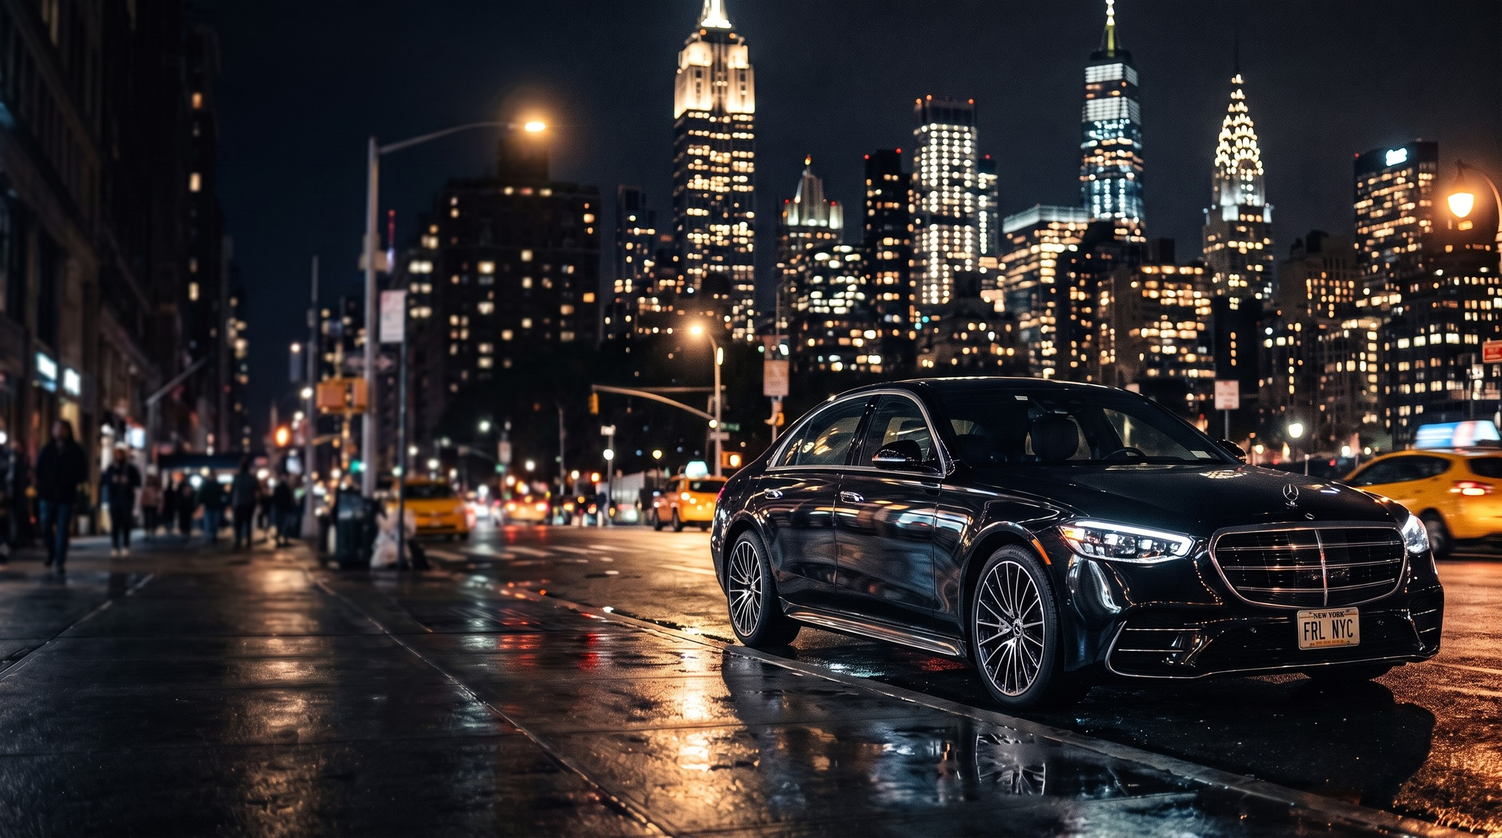
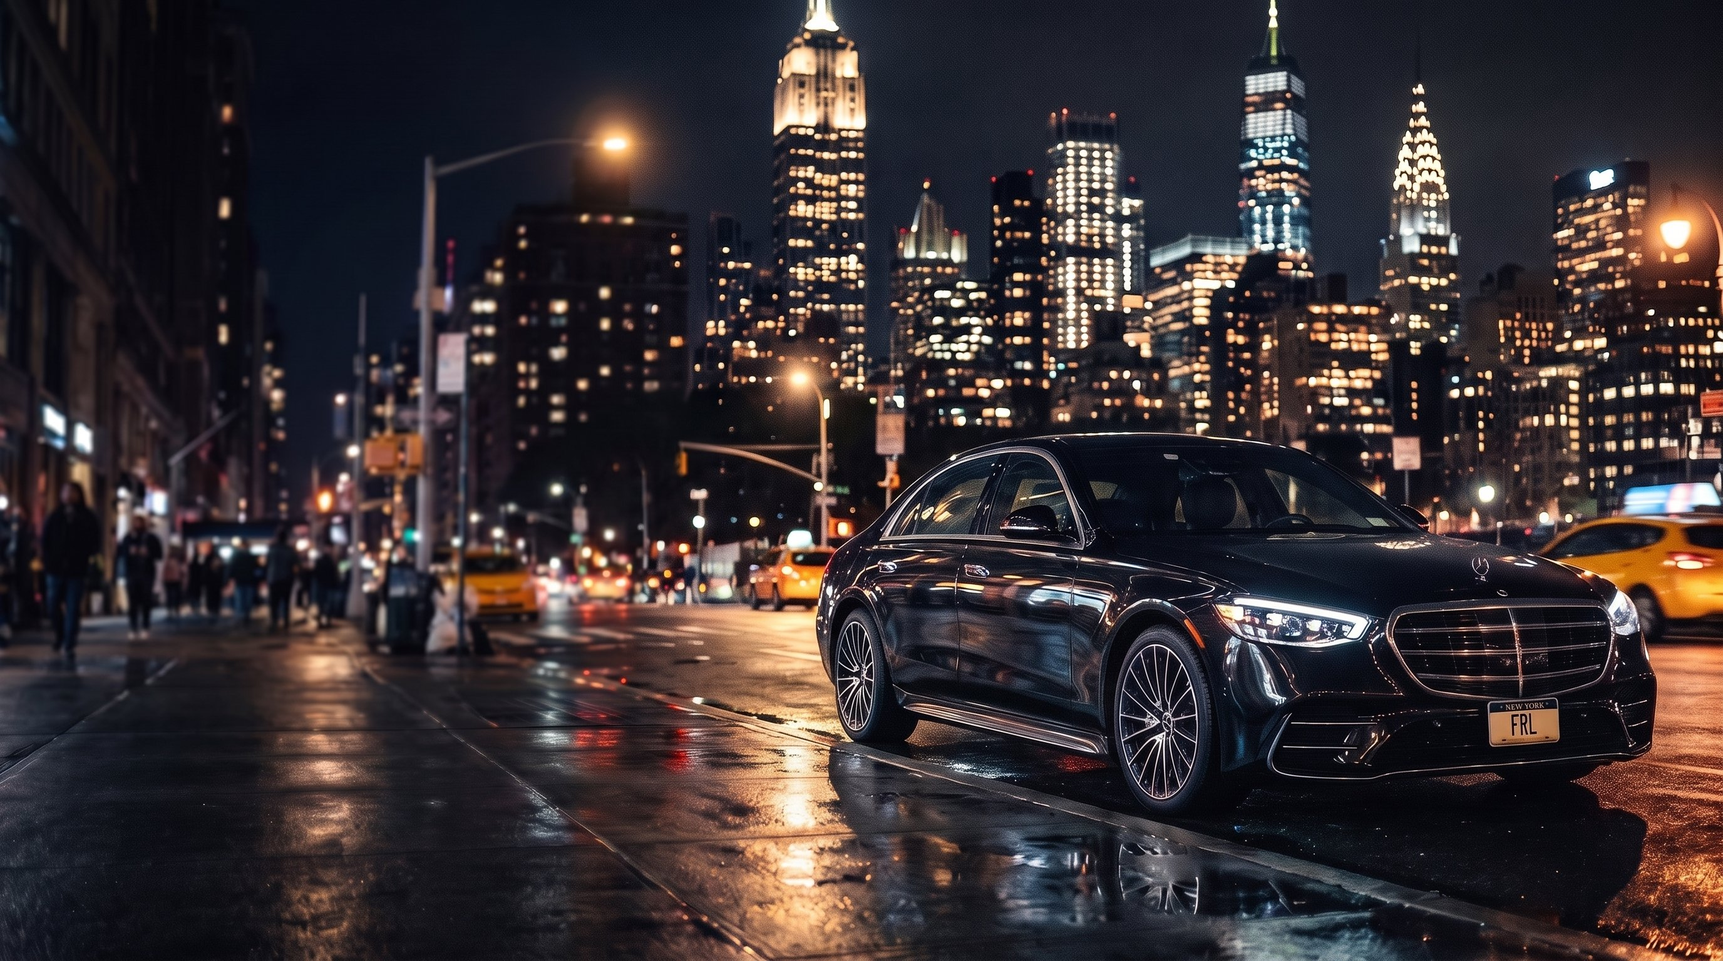
Go global: worldwide airport search, global copy pass, Qatar consulate partner
- Reserve a Ride: airport fields are now a worldwide Google Places search
  (includedPrimaryTypes: airport) instead of a 7-airport NYC dropdown, with
  quick-pick chips for common airports (JFK, LGA, EWR, LHR, DXB, CDG)
- Rewrote NY/tri-state-exclusive copy across airport-transfers, corporate-
  limousine, hotels-concierge, contact-us and the homepage (meta
  descriptions, hero copy, section titles, FAQ answers, page titles) to
  reflect the 200+ city, 90+ country network alongside the accurate NY
  specifics; added a "landing somewhere else" banner to the airports page
- Homepage hero H1 now reads "...now worldwide" instead of implying NYC-only
- Partners & Clients: The Plaza now appears first in DOM order so it leads
  on the mobile stacked grid (desktop is unaffected, positioned absolutely);
  added Consulate General of the State of Qatar as a new partner
- Hero image: edited the car's plate from "FRL NYC" to "FRL"

diff --git a/reserve-a-ride.js b/reserve-a-ride.js
@@ -15,7 +15,10 @@
     { id: 'sprinter', name: 'Executive Sprinter Van', klass: 'Luxury Van', guests: 14, luggage: 14, tag: 'Up to fourteen', img: 'assets/reserve-veh-sprinter.webp' },
   ];
 
-  var AIRPORTS = ['JFK — John F. Kennedy', 'LGA — LaGuardia', 'EWR — Newark Liberty', 'TEB — Teterboro', 'HPN — Westchester County', 'ISP — Long Island MacArthur', 'Private FBO — specify in notes'];
+  // Quick-pick suggestions shown as chips under the airport field — the
+  // full field is a worldwide Google Places search (see wireAddressAutocomplete),
+  // these just shortcut the airports we're asked for most.
+  var QUICK_AIRPORTS = ['JFK — John F. Kennedy', 'LGA — LaGuardia', 'EWR — Newark Liberty', 'LHR — London Heathrow', 'DXB — Dubai International', 'CDG — Paris Charles de Gaulle'];
 
   var SEATS = [
     { key: 'infant', name: 'Infant', note: '0–12 months' },
@@ -44,7 +47,7 @@
     service: 'airport',
     direction: 'arrival',
     pickup: '', dropoff: '',
-    airport: AIRPORTS[0], airline: '', flight: '',
+    airport: '', airline: '', flight: '',
     stops: [],
     date: todayPlusOne(), time: '09:00',
     hours: '4',
@@ -84,6 +87,8 @@
     var sh = shape();
     if (sh.pickup === 'address' && !state.pickup.trim()) return 'Add a pickup address.';
     if (sh.drop === 'address' && !state.dropoff.trim()) return 'Add a drop-off address.';
+    if (sh.pickup === 'airport' && !state.airport.trim()) return 'Add a pickup airport.';
+    if (sh.drop === 'airport' && !state.airport.trim()) return 'Add a drop-off airport.';
     return '';
   }
 
@@ -154,8 +159,9 @@
     return part.text || '';
   }
 
-  function wireAddressAutocomplete(inputEl) {
+  function wireAddressAutocomplete(inputEl, options) {
     if (!inputEl || inputEl.dataset.autocompleteWired) return;
+    options = options || {};
     inputEl.dataset.autocompleteWired = '1';
 
     var field = inputEl.closest('.rsv-field');
@@ -208,6 +214,7 @@
         sessionToken: autocompleteSessionToken,
         locationBias: { center: { lat: 40.7484, lng: -73.9438 }, radius: 50000 },
       };
+      if (options.includedPrimaryTypes) request.includedPrimaryTypes = options.includedPrimaryTypes;
 
       var result;
       try {
@@ -341,10 +348,10 @@
     steps: $('rsvSteps'),
     fService: $('fService'),
     dirToggleWrap: $('dirToggleWrap'), dirArrival: $('dirArrival'), dirDeparture: $('dirDeparture'),
-    pickupAirportWrap: $('pickupAirportWrap'), fPickupAirport: $('fPickupAirport'),
+    pickupAirportWrap: $('pickupAirportWrap'), fPickupAirport: $('fPickupAirport'), pickupAirportChips: $('pickupAirportChips'),
     pickupAddressWrap: $('pickupAddressWrap'), fPickup: $('fPickup'),
     dropAddressWrap: $('dropAddressWrap'), fDropoff: $('fDropoff'),
-    dropAirportWrap: $('dropAirportWrap'), fDropAirport: $('fDropAirport'),
+    dropAirportWrap: $('dropAirportWrap'), fDropAirport: $('fDropAirport'), dropAirportChips: $('dropAirportChips'),
     flightWrap: $('flightWrap'), fAirline: $('fAirline'), fFlight: $('fFlight'),
     hourlyNote: $('hourlyNote'),
     stopsWrap: $('stopsWrap'), addStopBtn: $('addStopBtn'),
@@ -368,10 +375,23 @@
   };
 
   // ---------- static option lists (built once) ----------
-  AIRPORTS.forEach(function (a) {
-    el.fPickupAirport.appendChild(new Option(a, a));
-    el.fDropAirport.appendChild(new Option(a, a));
-  });
+  function buildAirportChips(wrap, inputEl) {
+    QUICK_AIRPORTS.forEach(function (a) {
+      var chip = document.createElement('button');
+      chip.type = 'button';
+      chip.className = 'rsv-airport-chip';
+      chip.textContent = a.split(' — ')[0];
+      chip.title = a;
+      chip.addEventListener('click', function () {
+        inputEl.value = a;
+        state.airport = a;
+        state.hint = '';
+      });
+      wrap.appendChild(chip);
+    });
+  }
+  buildAirportChips(el.pickupAirportChips, el.fPickupAirport);
+  buildAirportChips(el.dropAirportChips, el.fDropAirport);
 
   // ---------- render ----------
   function render() {
@@ -612,8 +632,8 @@
 
   el.fPickup.addEventListener('input', function (e) { state.pickup = e.target.value; state.hint = ''; });
   el.fDropoff.addEventListener('input', function (e) { state.dropoff = e.target.value; state.hint = ''; });
-  el.fPickupAirport.addEventListener('change', function (e) { state.airport = e.target.value; });
-  el.fDropAirport.addEventListener('change', function (e) { state.airport = e.target.value; });
+  el.fPickupAirport.addEventListener('input', function (e) { state.airport = e.target.value; state.hint = ''; });
+  el.fDropAirport.addEventListener('input', function (e) { state.airport = e.target.value; state.hint = ''; });
   el.fAirline.addEventListener('input', function (e) { state.airline = e.target.value; });
   el.fFlight.addEventListener('input', function (e) { state.flight = e.target.value; });
   el.fDate.addEventListener('change', function (e) { state.date = e.target.value; });
@@ -668,6 +688,8 @@
 
   wireAddressAutocomplete(el.fPickup);
   wireAddressAutocomplete(el.fDropoff);
+  wireAddressAutocomplete(el.fPickupAirport, { includedPrimaryTypes: ['airport'] });
+  wireAddressAutocomplete(el.fDropAirport, { includedPrimaryTypes: ['airport'] });
 
   render();
 })();

diff --git a/index.html b/index.html
@@ -3,7 +3,7 @@
 <head>
 <meta charset="utf-8">
 <meta name="viewport" content="width=device-width, initial-scale=1">
-<title>Friendly Ride — New York's Premiere Luxury Chauffeur Service</title>
+<title>Friendly Ride — New York's Premiere Luxury Chauffeur Service, Worldwide</title>
 <meta name="description" content="Personalised chauffeured service in New York, with reach across 200+ cities and 90+ countries. Where world-class vehicles meet the warmth of a trusted personal relationship.">
 <link rel="preconnect" href="https://fonts.gstatic.com" crossorigin>
 <link href="https://fonts.googleapis.com/css2?family=Cormorant+Garamond:wght@400;500;600&family=Jost:wght@300;400;500&display=swap" rel="stylesheet">
@@ -62,7 +62,7 @@
   <div class="hero__scrim-y"></div>
   <div class="hero__content">
     <div class="eyebrow">Personalised Chauffeured Service</div>
-    <h1 class="hero__title">New York&rsquo;s premiere luxury chauffeur service.</h1>
+    <h1 class="hero__title">New York&rsquo;s premiere luxury chauffeur service &mdash; now worldwide.</h1>
     <p class="hero__desc">Where world-class vehicles and impeccable professionalism meet the warmth of a trusted personal relationship.</p>
     <div class="hero__actions">
       <a href="reserve-a-ride.html" class="btn btn--solid">RESERVE YOUR RIDE</a>
@@ -266,7 +266,7 @@
     <a href="airport-transfers.html" class="service">
       <img src="assets/service-jet.jpg" alt="Tarmac, golden hour" class="service__image">
       <div class="service__title">Airport Transfers</div>
-      <p class="service__text">Transportation to and from any of the NYC airports has never been easier.</p>
+      <p class="service__text">Transportation to and from any airport in New York &mdash; or anywhere in the world &mdash; has never been easier.</p>
     </a>
     <a href="corporate-limousine.html" class="service">
       <img src="assets/service-corporate.jpg" alt="Corporate sedan, city" class="service__image">
@@ -309,6 +309,15 @@
     </div>
     <div class="partners__grid">
       <div class="partners__grid-pattern"></div>
+      <a href="https://www.theplazany.com/" target="_blank" rel="noopener" class="partner partner--featured" style="left:50%;top:43%;width:238px;height:238px">
+        <span class="partner__diamond"></span>
+        <span class="partner__logo" style="background-image:url(assets/logo-plaza.png);width:62%;height:46%"></span>
+        <span class="partner__plate">
+          <span class="partner__plate-name">The Plaza</span>
+          <span class="partner__plate-rule"></span>
+          <span class="partner__plate-city">New York</span>
+        </span>
+      </a>
       <a href="https://www.baccarathotels.com/" target="_blank" rel="noopener" class="partner" style="left:30%;top:19%;width:190px;height:190px">
         <span class="partner__diamond"></span>
         <span class="partner__logo" style="background-image:url(assets/logo-baccarat.svg);width:68%;height:52%"></span>
@@ -325,6 +334,15 @@
           <span class="partner__plate-name">Fairmont Hotels &amp; Resorts</span>
           <span class="partner__plate-rule"></span>
           <span class="partner__plate-city">Worldwide</span>
+        </span>
+      </a>
+      <a href="https://ny.consulate.qa/en" target="_blank" rel="noopener" class="partner" style="left:50%;top:14%;width:170px;height:170px">
+        <span class="partner__diamond"></span>
+        <span class="partner__logo" style="background-image:url(assets/logo-qatar-consulate.png);width:62%;height:52%"></span>
+        <span class="partner__plate">
+          <span class="partner__plate-name">Consulate General of the State of Qatar</span>
+          <span class="partner__plate-rule"></span>
+          <span class="partner__plate-city">New York &middot; Diplomatic</span>
         </span>
       </a>
       <a href="https://www.raffles.com/boston/" target="_blank" rel="noopener" class="partner" style="left:15%;top:44%;width:170px;height:170px">
@@ -370,15 +388,6 @@
           <span class="partner__plate-name">Breitling USA</span>
           <span class="partner__plate-rule"></span>
           <span class="partner__plate-city">United States</span>
-        </span>
-      </a>
-      <a href="https://www.theplazany.com/" target="_blank" rel="noopener" class="partner partner--featured" style="left:50%;top:43%;width:238px;height:238px">
-        <span class="partner__diamond"></span>
-        <span class="partner__logo" style="background-image:url(assets/logo-plaza.png);width:62%;height:46%"></span>
-        <span class="partner__plate">
-          <span class="partner__plate-name">The Plaza</span>
-          <span class="partner__plate-rule"></span>
-          <span class="partner__plate-city">New York</span>
         </span>
       </a>
     </div>

diff --git a/airport-transfers.html b/airport-transfers.html
@@ -3,8 +3,8 @@
 <head>
 <meta charset="utf-8">
 <meta name="viewport" content="width=device-width, initial-scale=1">
-<title>Airport Transfers | JFK, LaGuardia &amp; Newark Chauffeur Service | Friendly Ride Inc.</title>
-<meta name="description" content="Chauffeured airport transfers to and from JFK, LaGuardia, Newark, Teterboro, Westchester and Long Island MacArthur. Flight-tracked arrivals, inside-terminal meet and greet, one point of contact, 24/7.">
+<title>Airport Transfers | JFK, LaGuardia, Newark &amp; Worldwide | Friendly Ride Inc.</title>
+<meta name="description" content="Chauffeured airport transfers at JFK, LaGuardia, Newark and every private terminal in New York, plus any airport worldwide across our 200+ city, 90+ country network. Flight-tracked arrivals, inside-terminal meet and greet, one point of contact, 24/7.">
 <link rel="preconnect" href="https://fonts.gstatic.com" crossorigin>
 <link href="https://fonts.googleapis.com/css2?family=Cormorant+Garamond:wght@400;500;600&family=Jost:wght@300;400;500&display=swap" rel="stylesheet">
 <link rel="stylesheet" href="styles.css">
@@ -65,7 +65,7 @@
     </div>
     <div class="eyebrow air-hero__eyebrow">Airport Transfers</div>
     <h1 class="air-hero__title">The car is already there when you land.</h1>
-    <p class="air-hero__desc">Chauffeured transfers to and from JFK, LaGuardia, Newark and every private terminal in the region &mdash; flight-tracked, met inside the hall, and handled by a chauffeur who already knows your name.</p>
+    <p class="air-hero__desc">Chauffeured transfers at JFK, LaGuardia, Newark and every private terminal in New York &mdash; and any airport worldwide, across 200+ cities and 90+ countries. Flight-tracked, met inside the hall, and handled by a chauffeur who already knows your name.</p>
     <div class="air-hero__actions">
       <a href="reserve-a-ride.html" class="btn btn--solid">RESERVE A TRANSFER</a>
       <a href="tel:8773741122" class="link-underline">OR CALL 877-374-1122</a>
@@ -118,7 +118,7 @@
   <div class="air-airports__head">
     <div class="air-airports__head-main">
       <div class="eyebrow">Airports We Serve</div>
-      <h2 class="section-title air-airports__title">Every gate in the tri-state, commercial or private.</h2>
+      <h2 class="section-title air-airports__title">Every gate in New York &mdash; commercial or private.</h2>
     </div>
     <p class="air-airports__desc">Terminal geography, curb rules and holding lots differ at every field. Our chauffeurs work them daily &mdash; which is why our cars are waiting rather than circling.</p>
   </div>
@@ -153,6 +153,10 @@
       <div class="air-airport__name">Long Island MacArthur</div>
       <p class="air-airport__text">Paired with East End and Hamptons transfers through the season, including multi-car arrivals.</p>
     </div>
+  </div>
+  <div class="air-airports__global">
+    <div class="air-airports__global-text"><strong>Landing somewhere else?</strong> The same standard follows you &mdash; search any airport on earth when you reserve, backed by vetted chauffeurs across 200+ cities and 90+ countries.</div>
+    <a href="reserve-a-ride.html" class="link-underline link-underline--brass">SEARCH ANY AIRPORT WORLDWIDE &rarr;</a>
   </div>
 </section>
 

diff --git a/corporate-limousine.html b/corporate-limousine.html
@@ -3,8 +3,8 @@
 <head>
 <meta charset="utf-8">
 <meta name="viewport" content="width=device-width, initial-scale=1">
-<title>Corporate Limousine Service NYC | Executive Car Service for Companies | Friendly Ride Inc.</title>
-<meta name="description" content="Corporate limousine and executive car service for companies in New York City. Corporate accounts with consolidated invoicing, cost-centre coding, roadshows, airport transfers for staff, 24/7 dispatch and a 2023–2026 chauffeured fleet.">
+<title>Corporate Limousine Service NYC &amp; Worldwide | Executive Car Service for Companies | Friendly Ride Inc.</title>
+<meta name="description" content="Corporate limousine and executive car service for companies, based in New York and available across 200+ cities in 90+ countries. Corporate accounts with consolidated invoicing, cost-centre coding, roadshows, airport transfers for staff, 24/7 dispatch and a 2023–2026 chauffeured fleet.">
 <link rel="preconnect" href="https://fonts.gstatic.com" crossorigin>
 <link href="https://fonts.googleapis.com/css2?family=Cormorant+Garamond:wght@400;500;600&family=Jost:wght@300;400;500&display=swap" rel="stylesheet">
 <link rel="stylesheet" href="styles.css">
@@ -65,7 +65,7 @@
     </div>
     <div class="eyebrow corp-hero__eyebrow">Corporate Limousine Service</div>
     <h1 class="corp-hero__title">Ground transportation your executives never have to think about.</h1>
-    <p class="corp-hero__desc">A corporate account with Friendly Ride gives your company one chauffeured fleet, one dispatch desk and one invoice &mdash; for executive travel, airport runs, roadshows and client hospitality across New York, New Jersey and Connecticut.</p>
+    <p class="corp-hero__desc">A corporate account with Friendly Ride gives your company one chauffeured fleet, one dispatch desk and one invoice &mdash; for executive travel, airport runs, roadshows and client hospitality across New York and 200+ cities worldwide.</p>
     <div class="corp-hero__actions">
       <a href="https://www.friendlyrideinc.com/open-an-account/" class="btn btn--solid">OPEN A CORPORATE ACCOUNT</a>
       <a href="tel:8773741122" class="link-underline">OR SPEAK TO DISPATCH &mdash; 877-374-1122</a>
@@ -271,7 +271,7 @@
         <span class="corp-faq__q">Do you cover cities outside New York?</span>
         <span class="corp-faq__sign"></span>
       </summary>
-      <p class="corp-faq__a">New York, New Jersey and Connecticut are ours directly. Beyond the tri-state area we book and supervise vetted affiliates on your account, so the itinerary, the standards and the invoice stay with us.</p>
+      <p class="corp-faq__a">Yes &mdash; your account travels with you across 200+ cities in 90+ countries. New York, New Jersey and Connecticut are ours directly; everywhere else, we book and supervise vetted affiliates on your account, so the itinerary, the standards and the invoice stay with us.</p>
     </details>
     <details class="corp-faq__item">
       <summary class="corp-faq__summary">

diff --git a/hotels-concierge.html b/hotels-concierge.html
@@ -3,8 +3,8 @@
 <head>
 <meta charset="utf-8">
 <meta name="viewport" content="width=device-width, initial-scale=1">
-<title>Hotel Car Service NYC | Luxury Concierge Chauffeur Partner | Friendly Ride Inc.</title>
-<meta name="description" content="Chauffeur partner to luxury hotels and concierge desks in New York City. House car programmes, VIP guest arrivals, master-account and room-charge billing, 24/7 dispatch and a 2023–2026 fleet including Rolls-Royce, Bentley and Mercedes-Maybach.">
+<title>Hotel Car Service NYC &amp; Worldwide | Luxury Concierge Chauffeur Partner | Friendly Ride Inc.</title>
+<meta name="description" content="Chauffeur partner to luxury hotels and concierge desks in New York and across our 200+ city, 90+ country network. House car programmes, VIP guest arrivals, master-account and room-charge billing, 24/7 dispatch and a 2023–2026 fleet including Rolls-Royce, Bentley and Mercedes-Maybach.">
 <link rel="preconnect" href="https://fonts.gstatic.com" crossorigin>
 <link href="https://fonts.googleapis.com/css2?family=Cormorant+Garamond:wght@400;500;600&family=Jost:wght@300;400;500&display=swap" rel="stylesheet">
 <link rel="stylesheet" href="styles.css">
@@ -65,7 +65,7 @@
     </div>
     <div class="eyebrow hotel-hero__eyebrow">Hotels &amp; Luxury Concierge</div>
     <h1 class="hotel-hero__title">Two decades of trust from royalty, heads of state and the world&rsquo;s most discerning guests.</h1>
-    <p class="hotel-hero__desc">Friendly Ride has been the trusted chauffeur partner to New York&rsquo;s leading hotels since 2005 &mdash; vetted for kings, dignitaries, celebrities and heads of state, and held to the same standard for every guest who steps into the car. That is the experience and discretion we bring to your property.</p>
+    <p class="hotel-hero__desc">Friendly Ride has been the trusted chauffeur partner to New York&rsquo;s leading hotels since 2005 &mdash; vetted for kings, dignitaries, celebrities and heads of state, and held to the same standard for every guest who steps into the car. That is the experience and discretion we bring to your property, in New York and at partner hotels across 200+ cities worldwide.</p>
     <div class="hotel-hero__actions">
       <a href="https://www.friendlyrideinc.com/open-an-account/" class="btn btn--solid">BECOME A HOTEL PARTNER</a>
       <a href="tel:8773741122" class="link-underline">CUSTOMER RELATIONS HELPLINE &mdash; 877-374-1122</a>

diff --git a/contact-us.html b/contact-us.html
@@ -3,8 +3,8 @@
 <head>
 <meta charset="utf-8">
 <meta name="viewport" content="width=device-width, initial-scale=1">
-<title>Contact Friendly Ride Inc. | 24/7 NYC Dispatch</title>
-<meta name="description" content="Reach Friendly Ride Inc. dispatch 24 hours a day at 877-374-1122, email info@friendlyridelimo.com, or send an inquiry. Chauffeured transportation in New York City.">
+<title>Contact Friendly Ride Inc. | 24/7 Dispatch, New York to Worldwide</title>
+<meta name="description" content="Reach Friendly Ride Inc. dispatch 24 hours a day at 877-374-1122, email info@friendlyridelimo.com, or send an inquiry. Chauffeured transportation based in New York, serving 200+ cities in 90+ countries worldwide.">
 <link rel="preconnect" href="https://fonts.gstatic.com" crossorigin>
 <link href="https://fonts.googleapis.com/css2?family=Cormorant+Garamond:wght@400;500;600&family=Jost:wght@300;400;500&display=swap" rel="stylesheet">
 <link rel="stylesheet" href="styles.css">
@@ -189,7 +189,7 @@
       </div>
       <div class="ct-aside__item">
         <div class="ct-aside__label">Service area</div>
-        <div class="ct-aside__value ct-aside__value--sm">New York City &middot; Long Island &middot; Westchester &middot; New Jersey &middot; Connecticut</div>
+        <div class="ct-aside__value ct-aside__value--sm">200+ cities &middot; 90+ countries worldwide &mdash; direct fleet in New York City, Long Island, Westchester, New Jersey &amp; Connecticut</div>
       </div>
       <div class="ct-aside__item ct-aside__item--last">
         <div class="ct-aside__label">Booking now?</div>

diff --git a/airport-transfers.css b/airport-transfers.css
@@ -107,6 +107,22 @@
 .air-airport__name { font-size: 14px; letter-spacing: .14em; text-transform: uppercase; color: var(--text); font-weight: 500; margin: 14px 0 10px; }
 .air-airport__text { font-size: 14.5px; font-weight: 300; line-height: 1.75; color: var(--text-dim); margin: 0; }
 
+.air-airports__global {
+  max-width: 1280px;
+  margin: 44px auto 0;
+  padding: 30px 36px;
+  border: 1px solid rgba(168,137,92,.3);
+  background: rgba(168,137,92,.06);
+  display: flex;
+  align-items: center;
+  justify-content: space-between;
+  gap: 30px;
+  flex-wrap: wrap;
+}
+.air-airports__global-text { font-size: 14.5px; font-weight: 300; line-height: 1.7; color: var(--text-dim); max-width: 620px; margin: 0; }
+.air-airports__global-text strong { color: #D8B978; font-weight: 500; }
+.air-airports__global .link-underline--brass { white-space: nowrap; font-size: 12.5px; }
+
 /* ============ INCLUDED AS STANDARD ============ */
 .air-included {
   position: relative;
@@ -248,6 +264,7 @@
   .air-airports__head { flex-direction: column; align-items: flex-start; gap: 20px; margin-bottom: 40px; }
   .air-airports__grid { grid-template-columns: 1fr; gap: 16px; }
   .air-airport { padding: 30px 26px; }
+  .air-airports__global { flex-direction: column; align-items: flex-start; margin-top: 28px; padding: 24px; }
 
   .air-included { grid-template-columns: 1fr; }
   .air-included__content { padding: 60px 22px; order: 2; }

diff --git a/reserve-a-ride.html b/reserve-a-ride.html
@@ -107,7 +107,8 @@
 
           <div class="rsv-field rsv-field--full" id="pickupAirportWrap" hidden>
             <label class="rsv-label" for="fPickupAirport">Pickup airport</label>
-            <select class="rsv-select" id="fPickupAirport"></select>
+            <input class="rsv-input" id="fPickupAirport" placeholder="Search any airport worldwide &mdash; JFK, Heathrow, Dubai..." autocomplete="off">
+            <div class="rsv-airport-chips" id="pickupAirportChips"></div>
           </div>
 
           <div class="rsv-field rsv-field--full" id="pickupAddressWrap" hidden>
@@ -122,7 +123,8 @@
 
           <div class="rsv-field rsv-field--full" id="dropAirportWrap" hidden>
             <label class="rsv-label" for="fDropAirport">Drop-off airport</label>
-            <select class="rsv-select" id="fDropAirport"></select>
+            <input class="rsv-input" id="fDropAirport" placeholder="Search any airport worldwide &mdash; JFK, Heathrow, Dubai..." autocomplete="off">
+            <div class="rsv-airport-chips" id="dropAirportChips"></div>
           </div>
 
           <div class="rsv-field rsv-field--full" id="flightWrap" hidden>

diff --git a/reserve-a-ride.css b/reserve-a-ride.css
@@ -217,6 +217,21 @@
 .rsv-autocomplete-item:last-child { border-bottom: none; }
 .rsv-autocomplete-item:hover, .rsv-autocomplete-item.is-active { background: rgba(168,137,92,.12); }
 .rsv-autocomplete-item__main { display: block; font-size: 14px; font-weight: 400; color: var(--r-text); }
+
+.rsv-airport-chips { display: flex; flex-wrap: wrap; gap: 8px; margin-top: 10px; }
+.rsv-airport-chip {
+  font-family: inherit;
+  font-size: 11.5px;
+  letter-spacing: .08em;
+  text-transform: uppercase;
+  color: var(--r-text-mut);
+  background: transparent;
+  border: 1px solid rgba(168,137,92,.3);
+  padding: 7px 13px;
+  cursor: pointer;
+  transition: border-color .2s, color .2s, background .2s;
+}
+.rsv-airport-chip:hover, .rsv-airport-chip:focus-visible { color: var(--r-brass); border-color: var(--r-brass); background: rgba(168,137,92,.1); }
 .rsv-autocomplete-item__secondary { display: block; font-size: 12px; font-weight: 300; color: var(--r-text-faint); margin-top: 2px; }
 
 /* ============ STOPS ============ */
